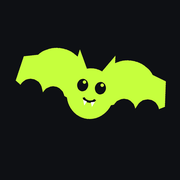
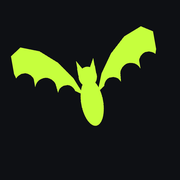
Operación Batman: nuevo icono de murciélago en vuelo (diseño propio)
Claude-Session: https://claude.ai/code/session_0136anGwXVA4PohtLM3ELyZh

Changed region(s): [[0.0556, 0.1389, 0.9444, 0.7222]]

diff --git a/focus/sw.js b/focus/sw.js
@@ -1,5 +1,5 @@
 // Service worker de Focus: la app abre aunque no haya conexión; los datos siempre van a la red.
-const CACHE = 'focus-v4';
+const CACHE = 'focus-v5';
 const ASSETS = ['./', './index.html', './manifest.json', './icon-180.png', './icon-192.png', './icon-512.png'];
 self.addEventListener('install', e => {
   e.waitUntil(caches.open(CACHE).then(c => c.addAll(ASSETS)).then(() => self.skipWaiting()));
